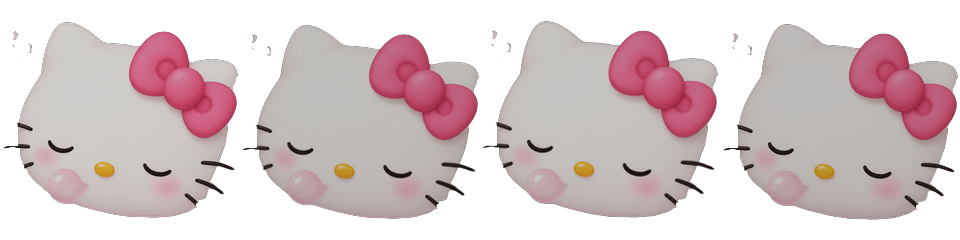
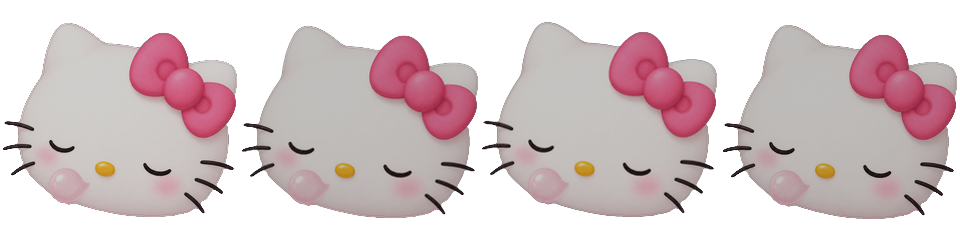
fix: restore smooth sleep face and right ear

diff --git a/src/pet/assetVersion.ts b/src/pet/assetVersion.ts
@@ -3,4 +3,4 @@
  * 修改 public/assets/pet 下的底图后请递增该值，
  * 让 Canvas 表情帧和 240px 回退 sheet 都绕过 WebView/HTTP 缓存。
  */
-export const ASSET_CACHE_BUST = "v=18";
+export const ASSET_CACHE_BUST = "v=19";

diff --git a/scripts/apply_pet_asset.py b/scripts/apply_pet_asset.py
@@ -16,7 +16,7 @@ import sys
 from collections import deque
 from pathlib import Path
 
-from PIL import Image, ImageEnhance, ImageFilter
+from PIL import Image, ImageChops, ImageEnhance, ImageFilter
 
 FRAME = 240
 ROOT = Path(__file__).resolve().parent.parent
@@ -27,12 +27,12 @@ SHEET_DIRS = [
 ]
 
 
-def is_pink(p):
+def is_pink(p, red_blue_gap=16):
     r, g, b = p
-    return (r - b) >= 16 and b < 248
+    return (r - b) >= red_blue_gap and b < 248
 
 
-def cutout_mask(im):
+def cutout_mask(im, pink_gap=16):
     """旧版颜色泛洪（仅作回退方案）：适合"白猫 + 粉背景"。"""
     w, h = im.size
     px = im.load()
@@ -40,12 +40,12 @@ def cutout_mask(im):
     dq = deque()
     for x in range(w):
         for p in ((x, 0), (x, h - 1)):
-            if is_pink(px[p]):
+            if is_pink(px[p], pink_gap):
                 visited[p[1] * w + p[0]] = 1
                 dq.append(p)
     for y in range(h):
         for p in ((0, y), (w - 1, y)):
-            if is_pink(px[p]):
+            if is_pink(px[p], pink_gap):
                 visited[p[1] * w + p[0]] = 1
                 dq.append(p)
     while dq:
@@ -54,7 +54,7 @@ def cutout_mask(im):
             nx, ny = x + dx, y + dy
             if 0 <= nx < w and 0 <= ny < h:
                 idx = ny * w + nx
-                if not visited[idx] and is_pink(px[nx, ny]):
+                if not visited[idx] and is_pink(px[nx, ny], pink_gap):
                     visited[idx] = 1
                     dq.append((nx, ny))
     mask = Image.new("L", (w, h), 0)
@@ -180,14 +180,15 @@ def decontaminate_edges(rgba):
         for x, y in semi:
             idx = y * w + x
             best = None
-            best_light = -1
+            best_distance = float("inf")
             for dx, dy in ((-1, -1), (0, -1), (1, -1), (-1, 0), (1, 0), (-1, 1), (0, 1), (1, 1)):
                 nx, ny = x + dx, y + dy
                 if 0 <= nx < w and 0 <= ny < h and solid[ny * w + nx]:
                     r, g, b, _ = px[nx, ny]
-                    light = r + g + b
-                    if light > best_light:
-                        best_light = light
+                    sr, sg, sb, _ = px[x, y]
+                    distance = (r - sr) ** 2 + (g - sg) ** 2 + (b - sb) ** 2
+                    if distance < best_distance:
+                        best_distance = distance
                         best = (r, g, b)
             if best is not None:
                 px[x, y] = (best[0], best[1], best[2], px[x, y][3])
@@ -196,7 +197,7 @@ def decontaminate_edges(rgba):
                 remaining.append((x, y))
         semi = remaining
 
-    # 半透明但颜色仍很深的点：向白色收敛（边缘最多 1–2px，视觉上是白描边而非黑撕裂）
+    # 没有邻近实体色的极少数半透明点才向白色收敛，避免把胡须边缘漂白。
     for x, y in semi:
         r, g, b, a = px[x, y]
         if r < 150 and g < 150 and b < 150:
@@ -205,7 +206,7 @@ def decontaminate_edges(rgba):
 
 
 def segment_with_rembg(im):
-    """优先方案：U2-Net 分割，保留与背景同色系的粉身体/蝴蝶结。"""
+    """优先方案：U2-Net 分割，并保留睡觉图中独立的右耳。"""
     try:
         from rembg import new_session, remove
     except Exception as exc:  # rembg 未安装
@@ -221,40 +222,37 @@ def segment_with_rembg(im):
         print("rembg result looks blank, fallback to flood fill")
         return None
 
-    strong = keep_subject_components(a, im, low=128, margin=40, min_size=20)
-    body_low = keep_subject_components(a, im, low=64, margin=40, min_size=20)
-    # 睡觉等图里，右脸等浅色区域 rembg 只给了 64–128 的弱置信度；
-    # 把它们补回 mask，但只补浅色像素——深色弱置信像素是垫子/背景晕边，继续丢弃。
-    mask = strong.copy()
-    spx = im.load()
-    sop = strong.load()
-    bop = body_low.load()
-    mp = mask.load()
-    for y in range(mask.height):
-        for x in range(mask.width):
-            if bop[x, y] > 0 and sop[x, y] == 0:
-                r, g, b = spx[x, y]
-                if r + g + b >= 360:
-                    mp[x, y] = 255
-    # 泛洪补白：rembg 会把“白脸”这类浅色主体整块判成背景（alpha≈0）。
-    # 用粉色背景颜色泛洪找回：只补“主体 bbox 内、非粉色背景、颜色浅”的像素，
-    # 深色垫子/被子残片仍不会回来。注意不能用 largest_component：
-    # 蝴蝶结与胡子之间的白脸会和主体被粉背景隔成独立小块，必须保留。
-    flood = cutout_mask(im).filter(ImageFilter.MinFilter(3))
-    fpx = flood.load()
-    fb = mask.getbbox()
-    if fb:
-        fb0 = (max(0, fb[0] - 20), max(0, fb[1] - 20), min(mask.width, fb[2] + 20), min(mask.height, fb[3] + 20))
-        for y in range(fb0[1], fb0[3]):
-            for x in range(fb0[0], fb0[2]):
-                if mp[x, y] == 0 and fpx[x, y] > 0:
-                    r, g, b = spx[x, y]
-                    if r + g + b >= 360:
-                        mp[x, y] = 255
-    # 闭运算补缺口（如耳朵内的小洞、腿间细缝）；不要用 MinFilter 整体腐蚀
-    mask = mask.filter(ImageFilter.MaxFilter(19))
-    mask = mask.filter(ImageFilter.MinFilter(19))
-    mask = mask.filter(ImageFilter.GaussianBlur(1.4))
+    # U2-Net 对这张粉色背景图会把主体内部的白脸判成低 alpha，直接保留
+    # 原 alpha 会让脸在深色背景上发灰。用极低阈值恢复完整主体轮廓，再用
+    # 原图 RGB 合成；这样保留原图的平滑阴影、闭眼、鼻子和泡泡。
+    silhouette = a.point(lambda value: 255 if value >= 8 else 0)
+    mask = largest_component(silhouette, threshold=128)
+
+    # 蝴蝶结右上方的白色右耳与头部被粉色边缘隔开，U2-Net 会漏掉它。
+    # 从原图做颜色泛洪，按位置和面积只补回这一个独立耳朵组件，避免把
+    # 左上角的 Z/星星装饰一起带入。
+    # 颜色泛洪得到的最大块正好是完整的脸部轮廓；和 U2-Net 的主体轮廓
+    # 取并集，补回右脸被误切的浅色边缘。蝴蝶结、胡须和泡泡仍由 U2-Net 保留。
+    # 右脸的柔和粉色阴影在默认阈值下也会被当成背景；提高粉色判定阈值
+    # 后得到完整且平滑的脸部轮廓。
+    face = largest_component(cutout_mask(im, pink_gap=35), threshold=128)
+    ear_flood = cutout_mask(im, pink_gap=35)
+    ear = Image.new("L", im.size, 0)
+    epx = ear.load()
+    for comp in binary_components(ear_flood, threshold=128):
+        if len(comp) < 10000:
+            continue
+        xs = [x for x, _ in comp]
+        ys = [y for _, y in comp]
+        if min(xs) >= 900 and min(ys) >= 300 and max(ys) <= 550:
+            for x, y in comp:
+                epx[x, y] = 255
+    mask = ImageChops.lighter(mask, face)
+    mask = ImageChops.lighter(mask, ear)
+    # 先向内收 1px 再羽化：去掉原粉色背景在外轮廓留下的半透明染色，
+    # 同时保留原图脸部的平滑渐变，不会再引入局部缝合线。
+    mask = mask.filter(ImageFilter.MinFilter(5))
+    mask = mask.filter(ImageFilter.GaussianBlur(0.9))
     clean = Image.new("RGBA", im.size, (0, 0, 0, 0))
     clean.paste(im.convert("RGB"), (0, 0), mask)
     clean = decontaminate_edges(clean)
